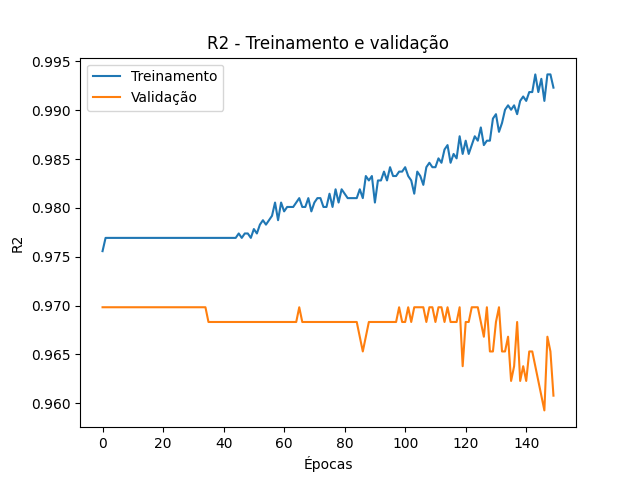
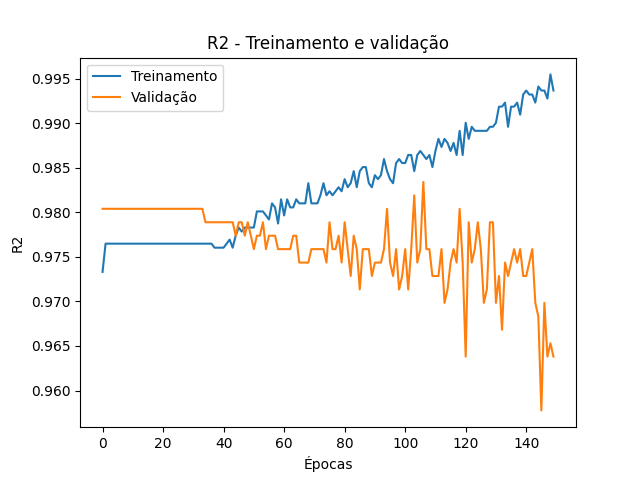
[UPD] Realizado testes e ajustes com a detecção utilizado uma classe para o modelo MLP

diff --git a/models/MLP.py b/models/MLP.py
@@ -2,11 +2,18 @@ import time
 import matplotlib
 import numpy as np
 import matplotlib.pyplot as plt
-from sklearn.metrics import mean_squared_error
 from keras.models import Sequential
 from keras.layers import Dense
 from pathlib import Path
+from keras import backend
 matplotlib.use('Agg')
+
+
+def rmseMetric(y_true, y_pred):
+    """
+    Método responsável por realizar o cálculo do RMSE
+    """
+    return backend.sqrt(backend.mean(backend.square(y_pred - y_true), axis=-1))
 
 
 class MLP:
@@ -75,7 +82,7 @@ class MLP:
         self.model.compile(
             loss='binary_crossentropy',
             optimizer='adam',
-            metrics=['accuracy', mean_squared_error, 'mape'],
+            metrics=['accuracy', rmseMetric, 'mape'],
         )
 
     def __train(self):
@@ -87,7 +94,8 @@ class MLP:
             self.data['y_train'],
             epochs=self.epochs,
             batch_size=self.batch_size,
-            validation_data=(self.data['x_val'], self.data['y_val'])),
+            validation_data=(self.data['x_val'], self.data['y_val'])
+        )
         return history
 
     def __test(self):
@@ -98,11 +106,11 @@ class MLP:
         loss, accuracy_model, rmse, mape = self.model.evaluate(self.data['x_test'], self.data['y_test'])
 
         # gera as detecções se cada notícia é fake ou não
-        detections = self.model.predict(self.data['x_data'])
+        detections = self.model.predict(self.data['x'])
 
         # ajusta as detecções
         rounded = [round(x[0]) for x in detections]
-        accuracy_detection = np.mean(rounded == self.data['y_data'])
+        accuracy_detection = np.mean(rounded == self.data['y'])
 
         return loss, accuracy_model, rmse, mape, accuracy_detection
 
@@ -152,8 +160,8 @@ class MLP:
         # Apresentação dos gráficos de treinamento e validação da rede
         Path('graphics').mkdir(parents=True, exist_ok=True)
 
-        plt.plot(history.history['rmse'])
-        plt.plot(history.history['val_rmse'])
+        plt.plot(history.history['rmseMetric'])
+        plt.plot(history.history['val_rmseMetric'])
         plt.title('RMSE - Treinamento e validação')
         plt.xlabel('Épocas')
         plt.ylabel('RMSE')
@@ -192,11 +200,11 @@ class MLP:
         print('Treinando e validando o modelo o modelo... ')
         history = self.__train()
 
-        # print('Testando o modelo o modelo... ')
-        # loss, accuracy_model, rmse, mape, accuracy_detection = self.__test()
-        #
-        # print('Resultados: ')
-        # self.__result(history, loss, accuracy_model, rmse, mape, accuracy_detection)
+        print('Testando o modelo o modelo... ')
+        loss, accuracy_model, rmse, mape, accuracy_detection = self.__test()
+
+        print('Resultados: ')
+        self.__result(history, loss, accuracy_model, rmse, mape, accuracy_detection)
 
         fim = time.time()
         print('Detecção de fake news realizada com sucesso! ')
